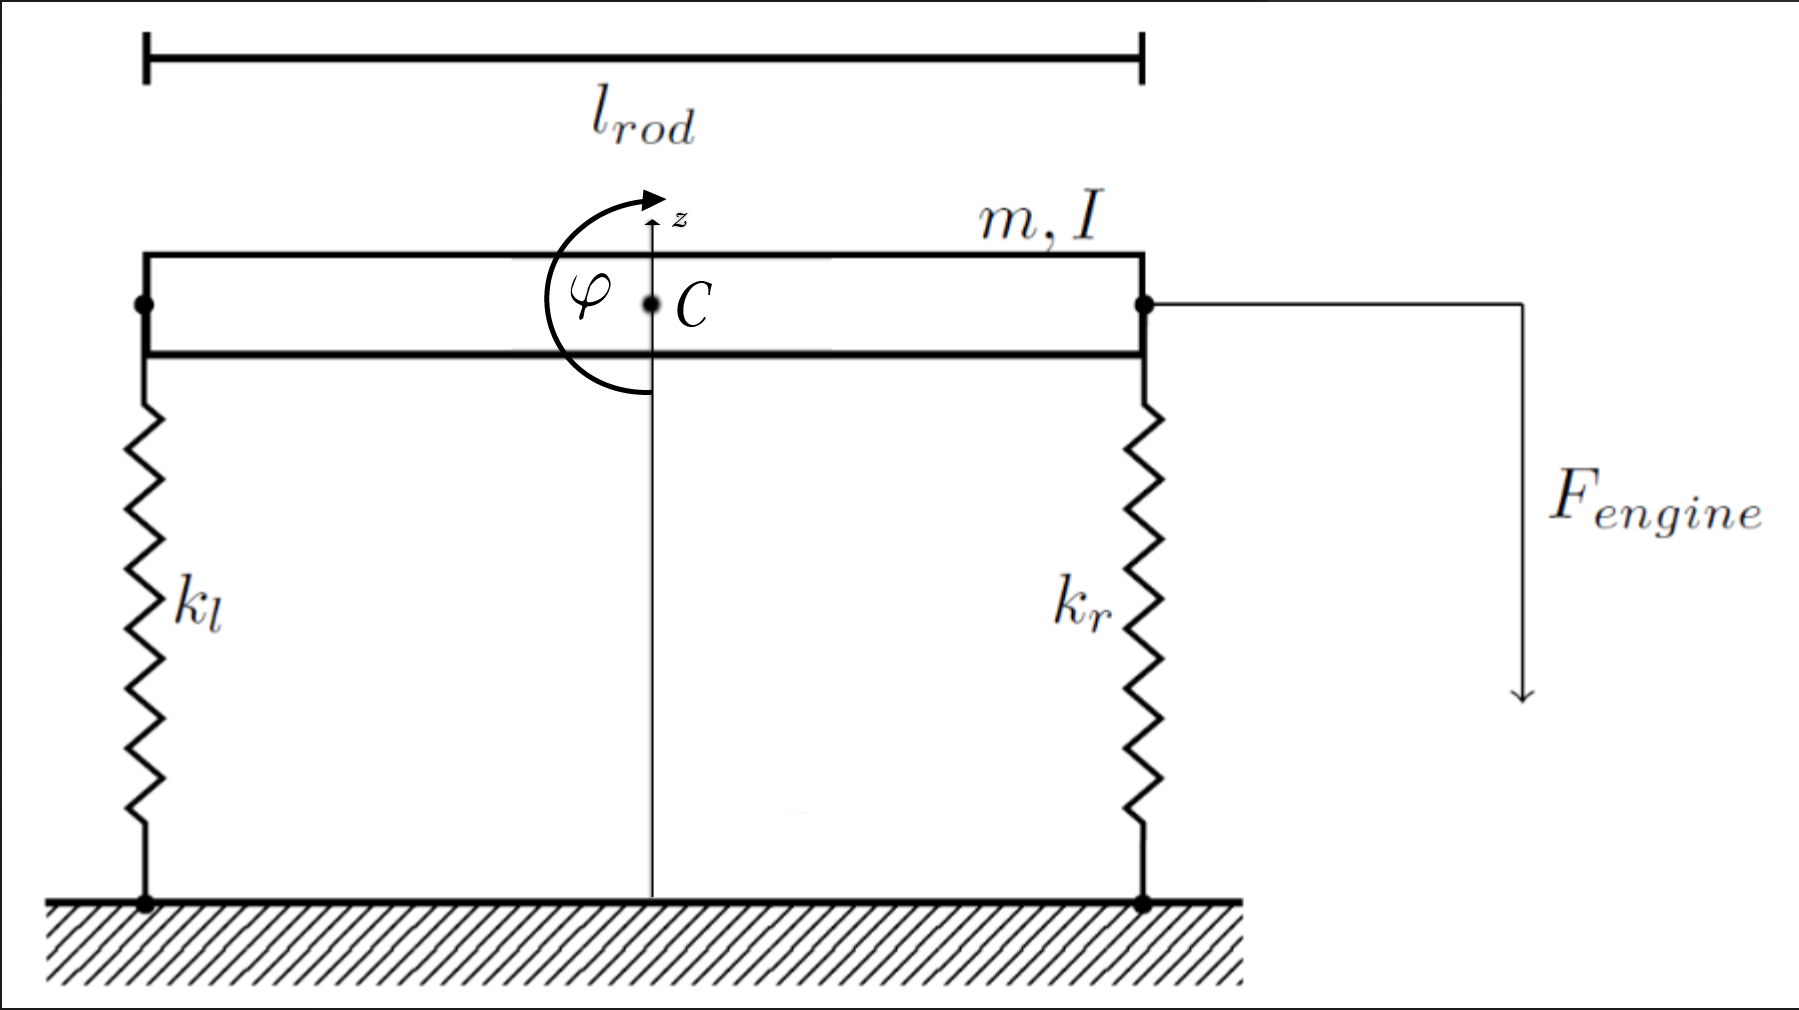
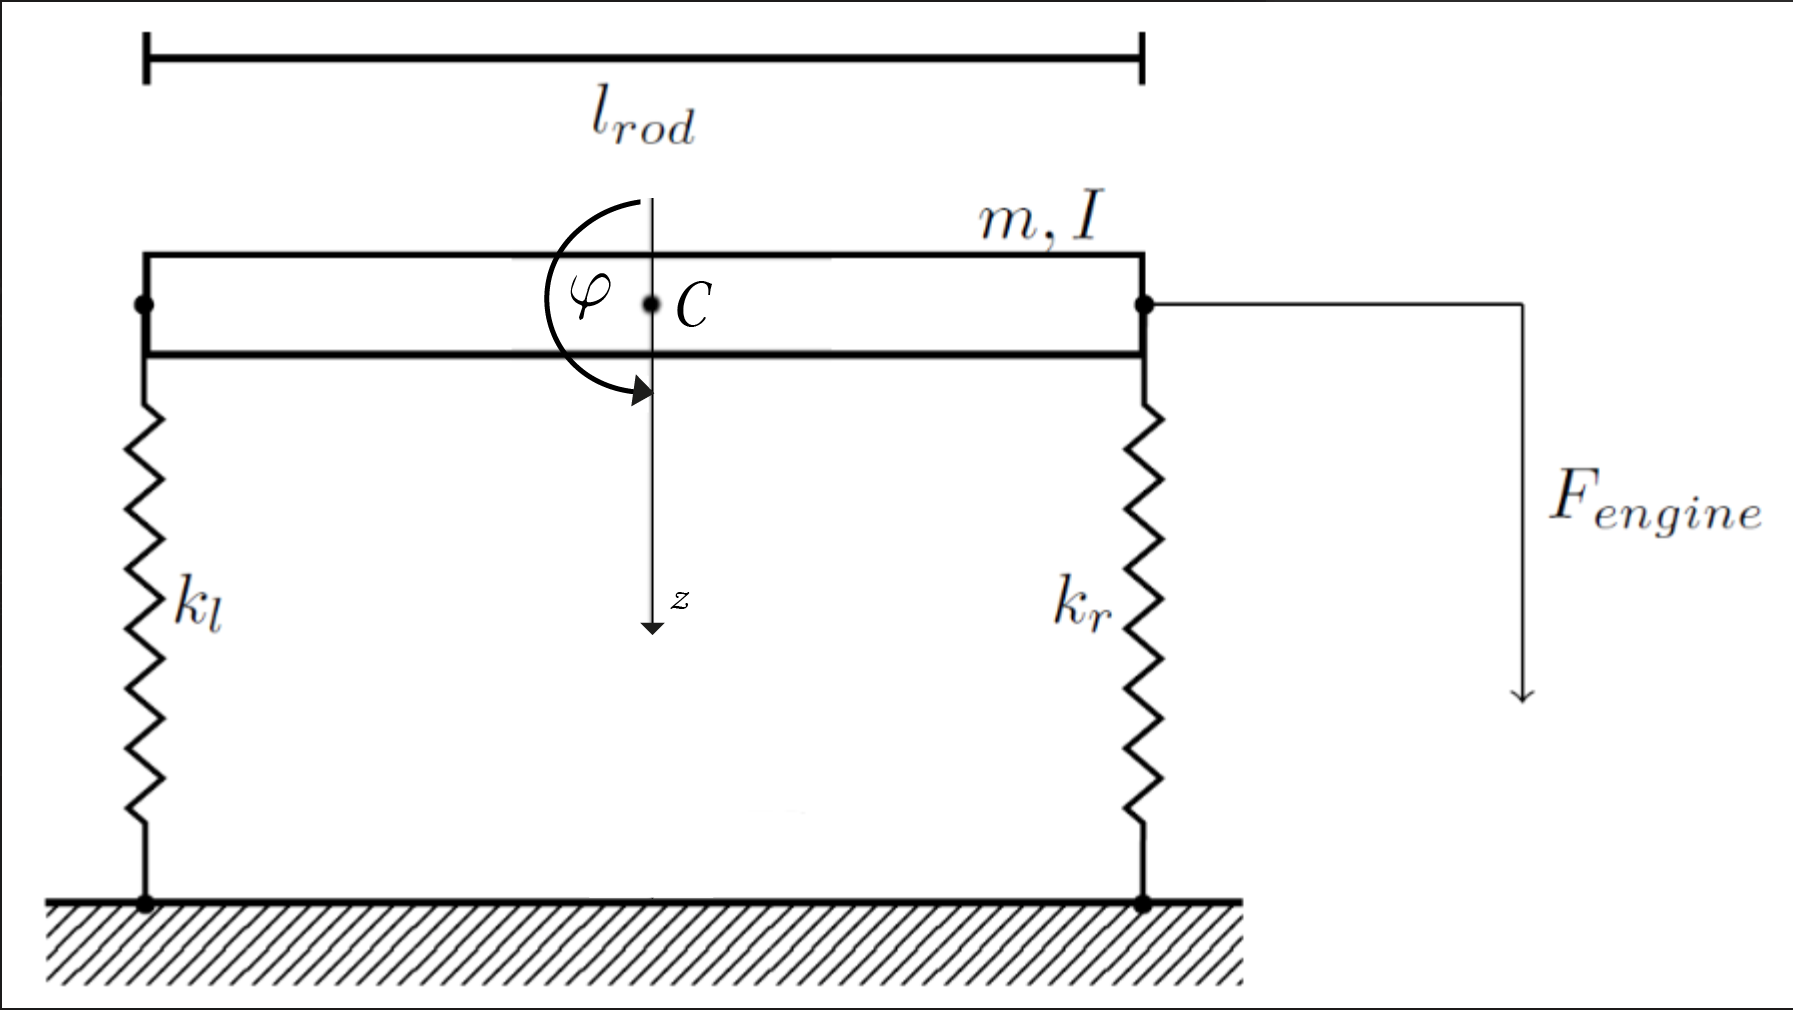
Reporting module maintenance
On branch master
Your branch is up to date with 'origin/master'.

Changes to be committed:
	modified:   models/images/car_undamped.png - scheme corrections
	modified:   utilities/adaptable.py - minor changes
	modified:   utilities/report.py - minor changes

diff --git a/utilities/report.py b/utilities/report.py
@@ -3017,11 +3017,7 @@ class SympyFormula(ReportModule):
             self._eq.append(Label(marker))
             self._marker = marker
 
-        if self.__class__._color:
 
-            self._container.append(TextColor(self.__class__._color, self._eq))
-        else:
-            self._container.append(self._eq)
 
     def __call__(self, analysis):
 
@@ -3035,12 +3031,26 @@ class SympyFormula(ReportModule):
 
         return self._backend(self._expr)
 
-    def __repr__(self):
+#     def __repr__(self):
 
-        display(self._expr)
+#         display(self._expr)
 
-        return ''
+#         return ''
 
+    def _repr_markdown_(self):
+        return f'\\begin{{equation}}\n  {self.reported()._backend(self._expr)} \n \\end{{equation}}'
+
+    def reported(self):
+        
+        
+        if self.__class__._color:
+
+            self._container.append(TextColor(self.__class__._color, self._eq))
+        else:
+            self._container.append(self._eq)
+        
+        return copy.copy(self)
+    
     def _latex(self):
 
         return self._backend(self._expr)

diff --git a/utilities/adaptable.py b/utilities/adaptable.py
@@ -67,6 +67,7 @@ class ReportModule:
         >>>RM.set_units_dict(unit_dict)
     '''
 
+    _cls_container = []
     cls_container = []
     _container = []
     cls_path = '.'
@@ -142,6 +143,15 @@ class ReportModule:
         cls._units = units
         return cls
 
+#     @property
+#     def _cls_container(self):
+#         return self.__class__._cls_container
+    
+#     @property
+#     def _container(self):
+#         return self.__class__._cls_container
+    
+    
     def __init__(self,
                  container=None,
                  path=None,
